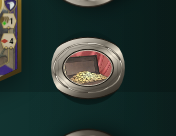
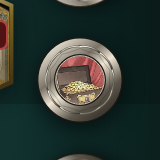
Make Treasury a true 1:1 circle (still tipless).
Phone-eso left the tipless dial in a wide capsule box, so the pewter
ring (preserveAspectRatio=none + border-radius 50%) read as an oval.
Lock Treasury/Mora to a square dial and face, keep the gothic tip off,
and gate w≈h in layout-fb. Stay on build 51.

diff --git a/docs/css/board-pass.css b/docs/css/board-pass.css
@@ -1253,3 +1253,99 @@ body.is-landscape #match .rail-group.rail-you {
   box-shadow: none !important;
 }
 
+/* Treasury / Mora: true 1:1 circle. Tipless (no gothic peak). Phone-eso
+   still sets .patron-coin / .token-dial to a wide 58×32 / 108×48 capsule;
+   percentage insets + preserveAspectRatio=none then squash the pewter ring
+   into a horizontal oval. Lock a square box and a square face. */
+body.is-portrait #match .patron-coin.tipless,
+body.is-portrait #match .patron-coin.treasury,
+body.is-portrait #match .patron-coin.mora,
+body.is-portrait #match .patron-coin[data-pid="treasury"],
+body.is-portrait #match .patron-coin[data-pid="mora"],
+body.is-landscape #match .patron-coin.tipless,
+body.is-landscape #match .patron-coin.treasury,
+body.is-landscape #match .patron-coin.mora,
+body.is-landscape #match .patron-coin[data-pid="treasury"],
+body.is-landscape #match .patron-coin[data-pid="mora"] {
+  width: 44px !important;
+  height: auto !important;
+  min-height: 44px !important;
+  max-height: none !important;
+  overflow: visible !important;
+}
+body.is-landscape #match .patron-coin.tipless,
+body.is-landscape #match .patron-coin.treasury,
+body.is-landscape #match .patron-coin.mora,
+body.is-landscape #match .patron-coin[data-pid="treasury"],
+body.is-landscape #match .patron-coin[data-pid="mora"] {
+  width: 46px !important;
+  min-height: 46px !important;
+}
+body.is-portrait #match .patron-coin.tipless .token-dial.medallion.tipless,
+body.is-portrait #match .patron-coin.treasury .token-dial.medallion.tipless,
+body.is-portrait #match .patron-coin.mora .token-dial.medallion.tipless,
+body.is-portrait #match .patron-coin[data-pid="treasury"] .token-dial.medallion.tipless,
+body.is-portrait #match .patron-coin[data-pid="mora"] .token-dial.medallion.tipless,
+body.is-landscape #match .patron-coin.tipless .token-dial.medallion.tipless,
+body.is-landscape #match .patron-coin.treasury .token-dial.medallion.tipless,
+body.is-landscape #match .patron-coin.mora .token-dial.medallion.tipless,
+body.is-landscape #match .patron-coin[data-pid="treasury"] .token-dial.medallion.tipless,
+body.is-landscape #match .patron-coin[data-pid="mora"] .token-dial.medallion.tipless {
+  display: block !important;
+  width: 44px !important;
+  height: 44px !important;
+  min-width: 44px !important;
+  min-height: 44px !important;
+  max-width: 44px !important;
+  max-height: 44px !important;
+  aspect-ratio: 1 / 1 !important;
+  flex: 0 0 44px !important;
+  transform: none !important;
+  clip-path: none !important;
+  overflow: visible !important;
+}
+body.is-landscape #match .patron-coin.tipless .token-dial.medallion.tipless,
+body.is-landscape #match .patron-coin.treasury .token-dial.medallion.tipless,
+body.is-landscape #match .patron-coin.mora .token-dial.medallion.tipless,
+body.is-landscape #match .patron-coin[data-pid="treasury"] .token-dial.medallion.tipless,
+body.is-landscape #match .patron-coin[data-pid="mora"] .token-dial.medallion.tipless {
+  width: 46px !important;
+  height: 46px !important;
+  min-width: 46px !important;
+  min-height: 46px !important;
+  max-width: 46px !important;
+  max-height: 46px !important;
+  flex: 0 0 46px !important;
+}
+body.is-portrait #match .patron-coin.tipless .token-dial.medallion.tipless .coin-ring.medallion-face,
+body.is-portrait #match .patron-coin.treasury .token-dial.medallion.tipless .coin-ring.medallion-face,
+body.is-portrait #match .patron-coin.mora .token-dial.medallion.tipless .coin-ring.medallion-face,
+body.is-portrait #match .patron-coin[data-pid="treasury"] .token-dial.medallion.tipless .coin-ring.medallion-face,
+body.is-portrait #match .patron-coin[data-pid="mora"] .token-dial.medallion.tipless .coin-ring.medallion-face,
+body.is-landscape #match .patron-coin.tipless .token-dial.medallion.tipless .coin-ring.medallion-face,
+body.is-landscape #match .patron-coin.treasury .token-dial.medallion.tipless .coin-ring.medallion-face,
+body.is-landscape #match .patron-coin.mora .token-dial.medallion.tipless .coin-ring.medallion-face,
+body.is-landscape #match .patron-coin[data-pid="treasury"] .token-dial.medallion.tipless .coin-ring.medallion-face,
+body.is-landscape #match .patron-coin[data-pid="mora"] .token-dial.medallion.tipless .coin-ring.medallion-face {
+  inset: unset !important;
+  left: 22% !important;
+  top: 22% !important;
+  right: auto !important;
+  bottom: auto !important;
+  width: 56% !important;
+  height: 56% !important;
+  aspect-ratio: 1 / 1 !important;
+  border-radius: 50% !important;
+  transform: none !important;
+}
+body.is-portrait #match .patron-coin.tipless .medallion-svg,
+body.is-portrait #match .patron-coin.treasury .medallion-svg,
+body.is-portrait #match .patron-coin.mora .medallion-svg,
+body.is-landscape #match .patron-coin.tipless .medallion-svg,
+body.is-landscape #match .patron-coin.treasury .medallion-svg,
+body.is-landscape #match .patron-coin.mora .medallion-svg {
+  width: 100% !important;
+  height: 100% !important;
+  aspect-ratio: 1 / 1 !important;
+}
+

diff --git a/web/css/board-pass.css b/web/css/board-pass.css
@@ -1253,3 +1253,99 @@ body.is-landscape #match .rail-group.rail-you {
   box-shadow: none !important;
 }
 
+/* Treasury / Mora: true 1:1 circle. Tipless (no gothic peak). Phone-eso
+   still sets .patron-coin / .token-dial to a wide 58×32 / 108×48 capsule;
+   percentage insets + preserveAspectRatio=none then squash the pewter ring
+   into a horizontal oval. Lock a square box and a square face. */
+body.is-portrait #match .patron-coin.tipless,
+body.is-portrait #match .patron-coin.treasury,
+body.is-portrait #match .patron-coin.mora,
+body.is-portrait #match .patron-coin[data-pid="treasury"],
+body.is-portrait #match .patron-coin[data-pid="mora"],
+body.is-landscape #match .patron-coin.tipless,
+body.is-landscape #match .patron-coin.treasury,
+body.is-landscape #match .patron-coin.mora,
+body.is-landscape #match .patron-coin[data-pid="treasury"],
+body.is-landscape #match .patron-coin[data-pid="mora"] {
+  width: 44px !important;
+  height: auto !important;
+  min-height: 44px !important;
+  max-height: none !important;
+  overflow: visible !important;
+}
+body.is-landscape #match .patron-coin.tipless,
+body.is-landscape #match .patron-coin.treasury,
+body.is-landscape #match .patron-coin.mora,
+body.is-landscape #match .patron-coin[data-pid="treasury"],
+body.is-landscape #match .patron-coin[data-pid="mora"] {
+  width: 46px !important;
+  min-height: 46px !important;
+}
+body.is-portrait #match .patron-coin.tipless .token-dial.medallion.tipless,
+body.is-portrait #match .patron-coin.treasury .token-dial.medallion.tipless,
+body.is-portrait #match .patron-coin.mora .token-dial.medallion.tipless,
+body.is-portrait #match .patron-coin[data-pid="treasury"] .token-dial.medallion.tipless,
+body.is-portrait #match .patron-coin[data-pid="mora"] .token-dial.medallion.tipless,
+body.is-landscape #match .patron-coin.tipless .token-dial.medallion.tipless,
+body.is-landscape #match .patron-coin.treasury .token-dial.medallion.tipless,
+body.is-landscape #match .patron-coin.mora .token-dial.medallion.tipless,
+body.is-landscape #match .patron-coin[data-pid="treasury"] .token-dial.medallion.tipless,
+body.is-landscape #match .patron-coin[data-pid="mora"] .token-dial.medallion.tipless {
+  display: block !important;
+  width: 44px !important;
+  height: 44px !important;
+  min-width: 44px !important;
+  min-height: 44px !important;
+  max-width: 44px !important;
+  max-height: 44px !important;
+  aspect-ratio: 1 / 1 !important;
+  flex: 0 0 44px !important;
+  transform: none !important;
+  clip-path: none !important;
+  overflow: visible !important;
+}
+body.is-landscape #match .patron-coin.tipless .token-dial.medallion.tipless,
+body.is-landscape #match .patron-coin.treasury .token-dial.medallion.tipless,
+body.is-landscape #match .patron-coin.mora .token-dial.medallion.tipless,
+body.is-landscape #match .patron-coin[data-pid="treasury"] .token-dial.medallion.tipless,
+body.is-landscape #match .patron-coin[data-pid="mora"] .token-dial.medallion.tipless {
+  width: 46px !important;
+  height: 46px !important;
+  min-width: 46px !important;
+  min-height: 46px !important;
+  max-width: 46px !important;
+  max-height: 46px !important;
+  flex: 0 0 46px !important;
+}
+body.is-portrait #match .patron-coin.tipless .token-dial.medallion.tipless .coin-ring.medallion-face,
+body.is-portrait #match .patron-coin.treasury .token-dial.medallion.tipless .coin-ring.medallion-face,
+body.is-portrait #match .patron-coin.mora .token-dial.medallion.tipless .coin-ring.medallion-face,
+body.is-portrait #match .patron-coin[data-pid="treasury"] .token-dial.medallion.tipless .coin-ring.medallion-face,
+body.is-portrait #match .patron-coin[data-pid="mora"] .token-dial.medallion.tipless .coin-ring.medallion-face,
+body.is-landscape #match .patron-coin.tipless .token-dial.medallion.tipless .coin-ring.medallion-face,
+body.is-landscape #match .patron-coin.treasury .token-dial.medallion.tipless .coin-ring.medallion-face,
+body.is-landscape #match .patron-coin.mora .token-dial.medallion.tipless .coin-ring.medallion-face,
+body.is-landscape #match .patron-coin[data-pid="treasury"] .token-dial.medallion.tipless .coin-ring.medallion-face,
+body.is-landscape #match .patron-coin[data-pid="mora"] .token-dial.medallion.tipless .coin-ring.medallion-face {
+  inset: unset !important;
+  left: 22% !important;
+  top: 22% !important;
+  right: auto !important;
+  bottom: auto !important;
+  width: 56% !important;
+  height: 56% !important;
+  aspect-ratio: 1 / 1 !important;
+  border-radius: 50% !important;
+  transform: none !important;
+}
+body.is-portrait #match .patron-coin.tipless .medallion-svg,
+body.is-portrait #match .patron-coin.treasury .medallion-svg,
+body.is-portrait #match .patron-coin.mora .medallion-svg,
+body.is-landscape #match .patron-coin.tipless .medallion-svg,
+body.is-landscape #match .patron-coin.treasury .medallion-svg,
+body.is-landscape #match .patron-coin.mora .medallion-svg {
+  width: 100% !important;
+  height: 100% !important;
+  aspect-ratio: 1 / 1 !important;
+}
+

diff --git a/docs/js/app.js b/docs/js/app.js
@@ -280,7 +280,7 @@ function medallionMarkup(pid, pat, short, favorWord) {
     return `
       <div class="token-dial medallion tipless" title="${title}">
         <span class="coin-ring medallion-face"><img src="${art}" alt="${short}" draggable="false" /></span>
-        <svg class="medallion-svg" viewBox="0 0 100 100" preserveAspectRatio="none" aria-hidden="true">
+        <svg class="medallion-svg" viewBox="0 0 100 100" preserveAspectRatio="xMidYMid meet" aria-hidden="true">
           <defs>${defs}</defs>
           <circle class="medallion-window" cx="50" cy="50" r="28" fill="transparent"/>
           <path fill="url(#${uid}-pew)" fill-rule="evenodd" stroke="#1c1812" stroke-width="1.5"
@@ -4405,6 +4405,23 @@ function layoutMetrics() {
   const endEl = document.querySelector('#btn-end');
   const endFilter = endEl ? getComputedStyle(endEl).filter : '';
   const endTurnGlowOn = !!(endEl && endEl.classList.contains('can-end') && /drop-shadow/i.test(endFilter));
+  const treasCoin = document.querySelector('#rail-patrons .patron-coin[data-pid="treasury"], #rail-patrons .patron-coin.treasury');
+  const treasDial = treasCoin?.querySelector('.token-dial');
+  const treasFace = treasCoin?.querySelector('.coin-ring.medallion-face');
+  const treasSvg = treasCoin?.querySelector('.medallion-svg');
+  const rb = (el) => {
+    if (!el) return null;
+    const r = el.getBoundingClientRect();
+    return { w: +r.width.toFixed(2), h: +r.height.toFixed(2), x: +r.x.toFixed(2), y: +r.y.toFixed(2) };
+  };
+  const treasuryDialBox = rb(treasDial);
+  const treasuryFaceBox = rb(treasFace);
+  const treasurySvgBox = rb(treasSvg);
+  const roundish = (b) => !!(b && b.w > 12 && b.h > 12 && Math.abs(b.w - b.h) <= 2);
+  const treasuryDialRound = roundish(treasuryDialBox);
+  const treasuryFaceRound = roundish(treasuryFaceBox);
+  const treasurySvgRound = roundish(treasurySvgBox);
+  const treasuryCircle = treasuryDialRound && treasuryFaceRound && treasurySvgRound;
   const youHandSpan = youHandEls.length ? (() => {
     const rs = youHandEls.map((el) => el.getBoundingClientRect());
     const x = Math.min(...rs.map((r) => r.x));
@@ -4507,6 +4524,13 @@ function layoutMetrics() {
     pileBg,
     playableGlowOn,
     endTurnGlowOn,
+    treasuryDialBox,
+    treasuryFaceBox,
+    treasurySvgBox,
+    treasuryDialRound,
+    treasuryFaceRound,
+    treasurySvgRound,
+    treasuryCircle,
     oppHandCount: oppHandEls.length,
     oppHandMidX: oppHandMidX == null ? null : +oppHandMidX.toFixed(2),
     oppHandMidDx,

diff --git a/web/js/app.js b/web/js/app.js
@@ -280,7 +280,7 @@ function medallionMarkup(pid, pat, short, favorWord) {
     return `
       <div class="token-dial medallion tipless" title="${title}">
         <span class="coin-ring medallion-face"><img src="${art}" alt="${short}" draggable="false" /></span>
-        <svg class="medallion-svg" viewBox="0 0 100 100" preserveAspectRatio="none" aria-hidden="true">
+        <svg class="medallion-svg" viewBox="0 0 100 100" preserveAspectRatio="xMidYMid meet" aria-hidden="true">
           <defs>${defs}</defs>
           <circle class="medallion-window" cx="50" cy="50" r="28" fill="transparent"/>
           <path fill="url(#${uid}-pew)" fill-rule="evenodd" stroke="#1c1812" stroke-width="1.5"
@@ -4405,6 +4405,23 @@ function layoutMetrics() {
   const endEl = document.querySelector('#btn-end');
   const endFilter = endEl ? getComputedStyle(endEl).filter : '';
   const endTurnGlowOn = !!(endEl && endEl.classList.contains('can-end') && /drop-shadow/i.test(endFilter));
+  const treasCoin = document.querySelector('#rail-patrons .patron-coin[data-pid="treasury"], #rail-patrons .patron-coin.treasury');
+  const treasDial = treasCoin?.querySelector('.token-dial');
+  const treasFace = treasCoin?.querySelector('.coin-ring.medallion-face');
+  const treasSvg = treasCoin?.querySelector('.medallion-svg');
+  const rb = (el) => {
+    if (!el) return null;
+    const r = el.getBoundingClientRect();
+    return { w: +r.width.toFixed(2), h: +r.height.toFixed(2), x: +r.x.toFixed(2), y: +r.y.toFixed(2) };
+  };
+  const treasuryDialBox = rb(treasDial);
+  const treasuryFaceBox = rb(treasFace);
+  const treasurySvgBox = rb(treasSvg);
+  const roundish = (b) => !!(b && b.w > 12 && b.h > 12 && Math.abs(b.w - b.h) <= 2);
+  const treasuryDialRound = roundish(treasuryDialBox);
+  const treasuryFaceRound = roundish(treasuryFaceBox);
+  const treasurySvgRound = roundish(treasurySvgBox);
+  const treasuryCircle = treasuryDialRound && treasuryFaceRound && treasurySvgRound;
   const youHandSpan = youHandEls.length ? (() => {
     const rs = youHandEls.map((el) => el.getBoundingClientRect());
     const x = Math.min(...rs.map((r) => r.x));
@@ -4507,6 +4524,13 @@ function layoutMetrics() {
     pileBg,
     playableGlowOn,
     endTurnGlowOn,
+    treasuryDialBox,
+    treasuryFaceBox,
+    treasurySvgBox,
+    treasuryDialRound,
+    treasuryFaceRound,
+    treasurySvgRound,
+    treasuryCircle,
     oppHandCount: oppHandEls.length,
     oppHandMidX: oppHandMidX == null ? null : +oppHandMidX.toFixed(2),
     oppHandMidDx,

diff --git a/STATUS.md b/STATUS.md
@@ -1,6 +1,6 @@
 # Status
 
-**2026-09-14 (build 51):** Board/felt only — Ivan follow-up on 50. Patron column shifts a bit left; vertical gaps so the middle pendant reads as a full circle (centers stay colinear; pewter seated; Treasury/Mora tipless). Tavern DECK sits to the left of the tavern cards at the tavern band’s vertical center — opp DRAW stays top-left, you DRAW bottom-left, COOLDOWNs right corners. Deck / draw / cooldown piles show `assets/ui/card-back.svg` again. Stray top-of-felt gold orbs stay gone; playable-card / End Turn / hand / combo gold glow is kept. Layout-fb overlap gates from board #15/#18/#19/#23/#24 stay green. Club hub / store / collection / economy / music / auth / voice / club-chrome untouched. `?v=51`.
+**2026-09-14 (build 51):** Board/felt only — Ivan follow-up on 50. Patron column shifts a bit left; vertical gaps so the middle pendant reads as a full circle (centers stay colinear; pewter seated; Treasury/Mora tipless **1:1 circle**, not a horizontal oval). Tavern DECK sits to the left of the tavern cards at the tavern band’s vertical center — opp DRAW stays top-left, you DRAW bottom-left, COOLDOWNs right corners. Deck / draw / cooldown piles show `assets/ui/card-back.svg` again. Stray top-of-felt gold orbs stay gone; playable-card / End Turn / hand / combo gold glow is kept. Layout-fb overlap gates from board #15/#18/#19/#23/#24 stay green. Club hub / store / collection / economy / music / auth / voice / club-chrome untouched. `?v=51`.
 
 **2026-09-14 (build 50):** Board/felt only — Ivan portrait mark-up. SFX / settings / Leave strip lifts further toward the top-left. Tavern DECK pile moves to the top-left under opp DRAW. End Turn / hourglass sits in the bottom-left corner above you-DRAW (portrait). Five patron pendant circle-centers share one vertical X. Middle tavern card top-center = vw/2 (hand-center from #24 kept). Four corner piles show DRAW / COOLDOWN graphics with the word aligned under each stack. Stray `#match .board::before/::after` gold orbs removed (playable-card glow kept). Layout-fb overlap gates from board #15/#18/#19/#23/#24 stay green. Club hub / store / collection / economy / music / auth / voice / club-chrome untouched. `?v=50`.
 

diff --git a/docs/review/board-pr26/README.md b/docs/review/board-pr26/README.md
@@ -2,7 +2,7 @@
 
 Ivan follow-up on build 50 / PR #25. Puppeteer 390×844 + 844×390. All layout-fb overlap hits: false.
 
-Portrait: tavern mid dx **0px**, hand mid dx **0px**, pendant face Δx **0px**, patron col X **328** (build 50 was ~338), middle-patron gap **30.5px**, DECK left of tavern and band-centered (dy **−0.01px**), pile card-back **true**, playable + End Turn gold glow **true**, yellow orbs gone.
+Portrait: tavern mid dx **0px**, hand mid dx **0px**, pendant face Δx **0.02px**, patron col X **328** (build 50 was ~338), middle-patron gap **33px**, Treasury face **24.63×24.63** (true 1:1 circle, tipless), DECK left of tavern and band-centered (dy **−0.01px**), pile card-back **true**, playable + End Turn gold glow **true**, yellow orbs gone.
 
 Landscape: tavern mid dx **−0.01px**, hand mid dx **−0.01px**, pendant Δx **0.01px**, DECK beside tavern (dy **0px**). End Turn stays on the right rail.
 
@@ -17,7 +17,7 @@ Landscape: tavern mid dx **−0.01px**, hand mid dx **−0.01px**, pendant Δx *
 | Portrait hand on midline | before-portrait-hand-center.png | after-portrait-hand-center.png |
 | Landscape felt | before-landscape-844x390.png | after-landscape-844x390.png |
 | Landscape DECK beside tavern | — | after-landscape-deck-beside-tavern.png |
-| Treasury ring seated | — | after-portrait-treasury.png |
+| Treasury 1:1 circle (tipless) | — | after-portrait-treasury.png |
 | Hold-inspect | — | after-portrait-inspect.png |
 
 Gates: tavern mid dx ≤4px; hand mid dx ≤4px; pendant face Δx ≤4px; patron column left of build-50; middle patron circle clear (≥8px); DECK left of tavern and vertically centered on the band; opp DRAW top-left; pile stacks use `card-back.svg`; playable / End Turn gold glow on; yellow felt orbs gone; DRAW/CD labels under stacks; left strip hudTop < 260; End Turn bottom-left (portrait); overlap hits from #15/#18/#19/#23/#24 stay false. Club files from main 50.
